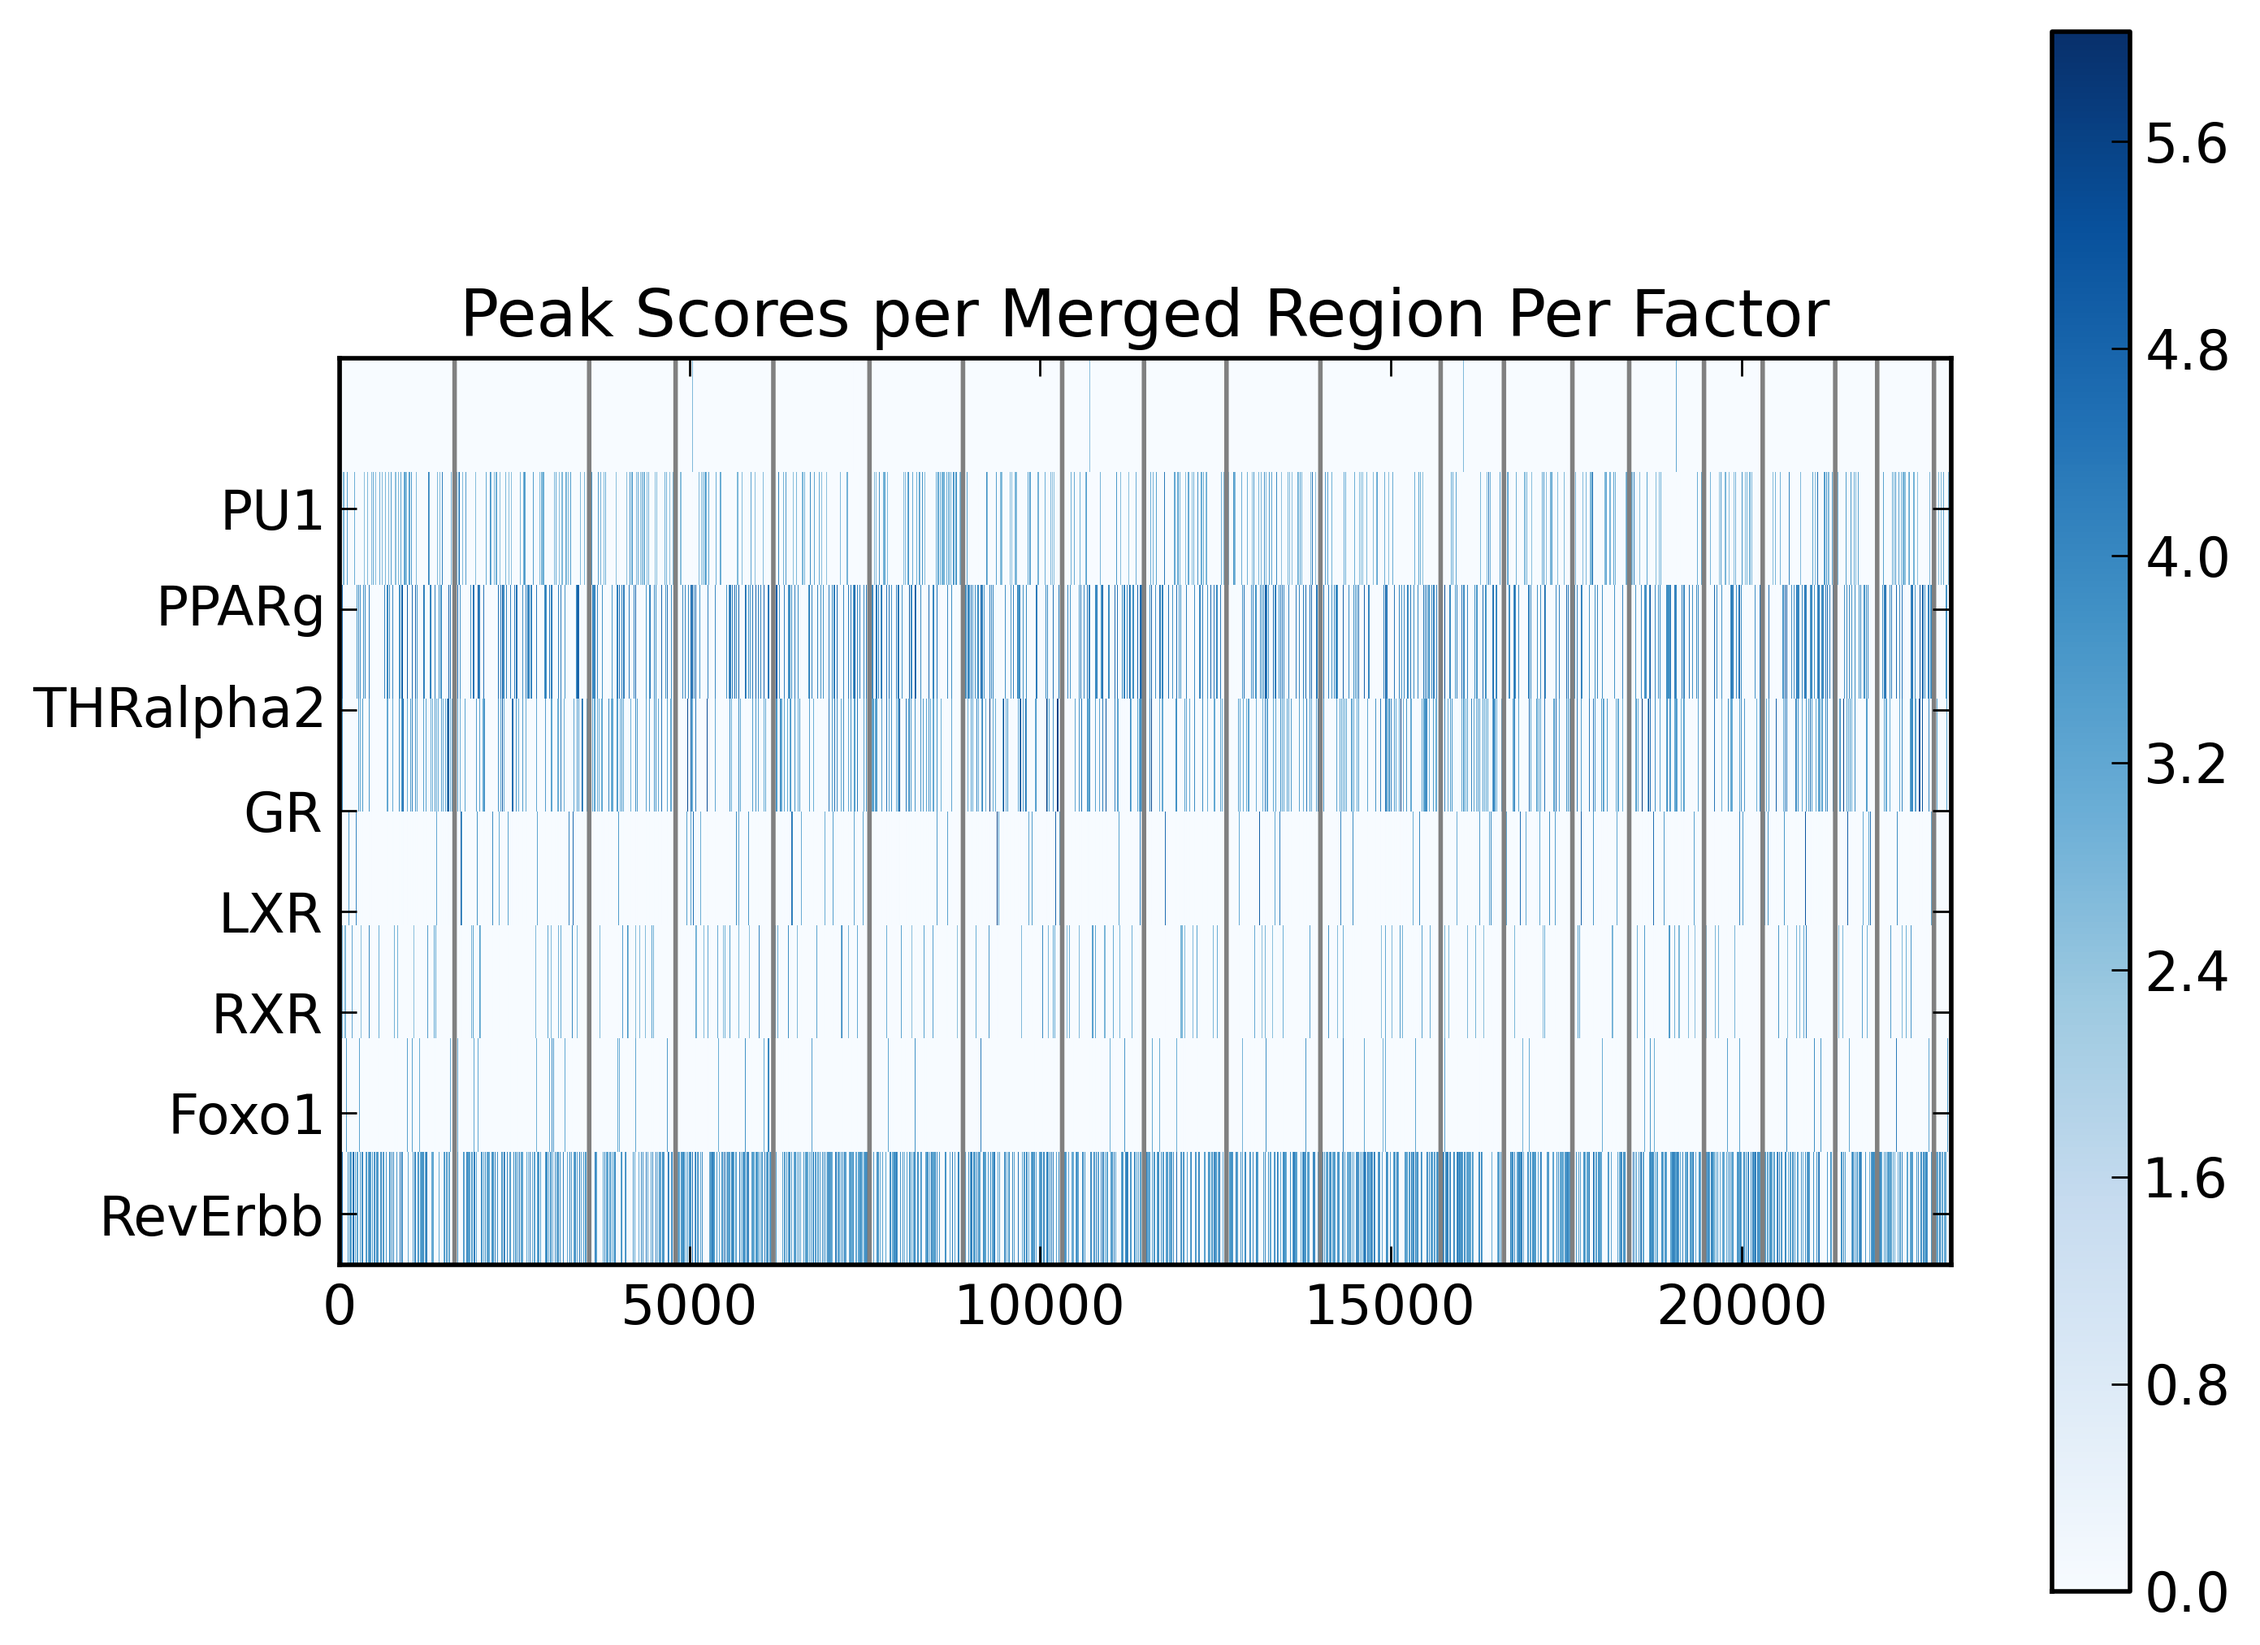
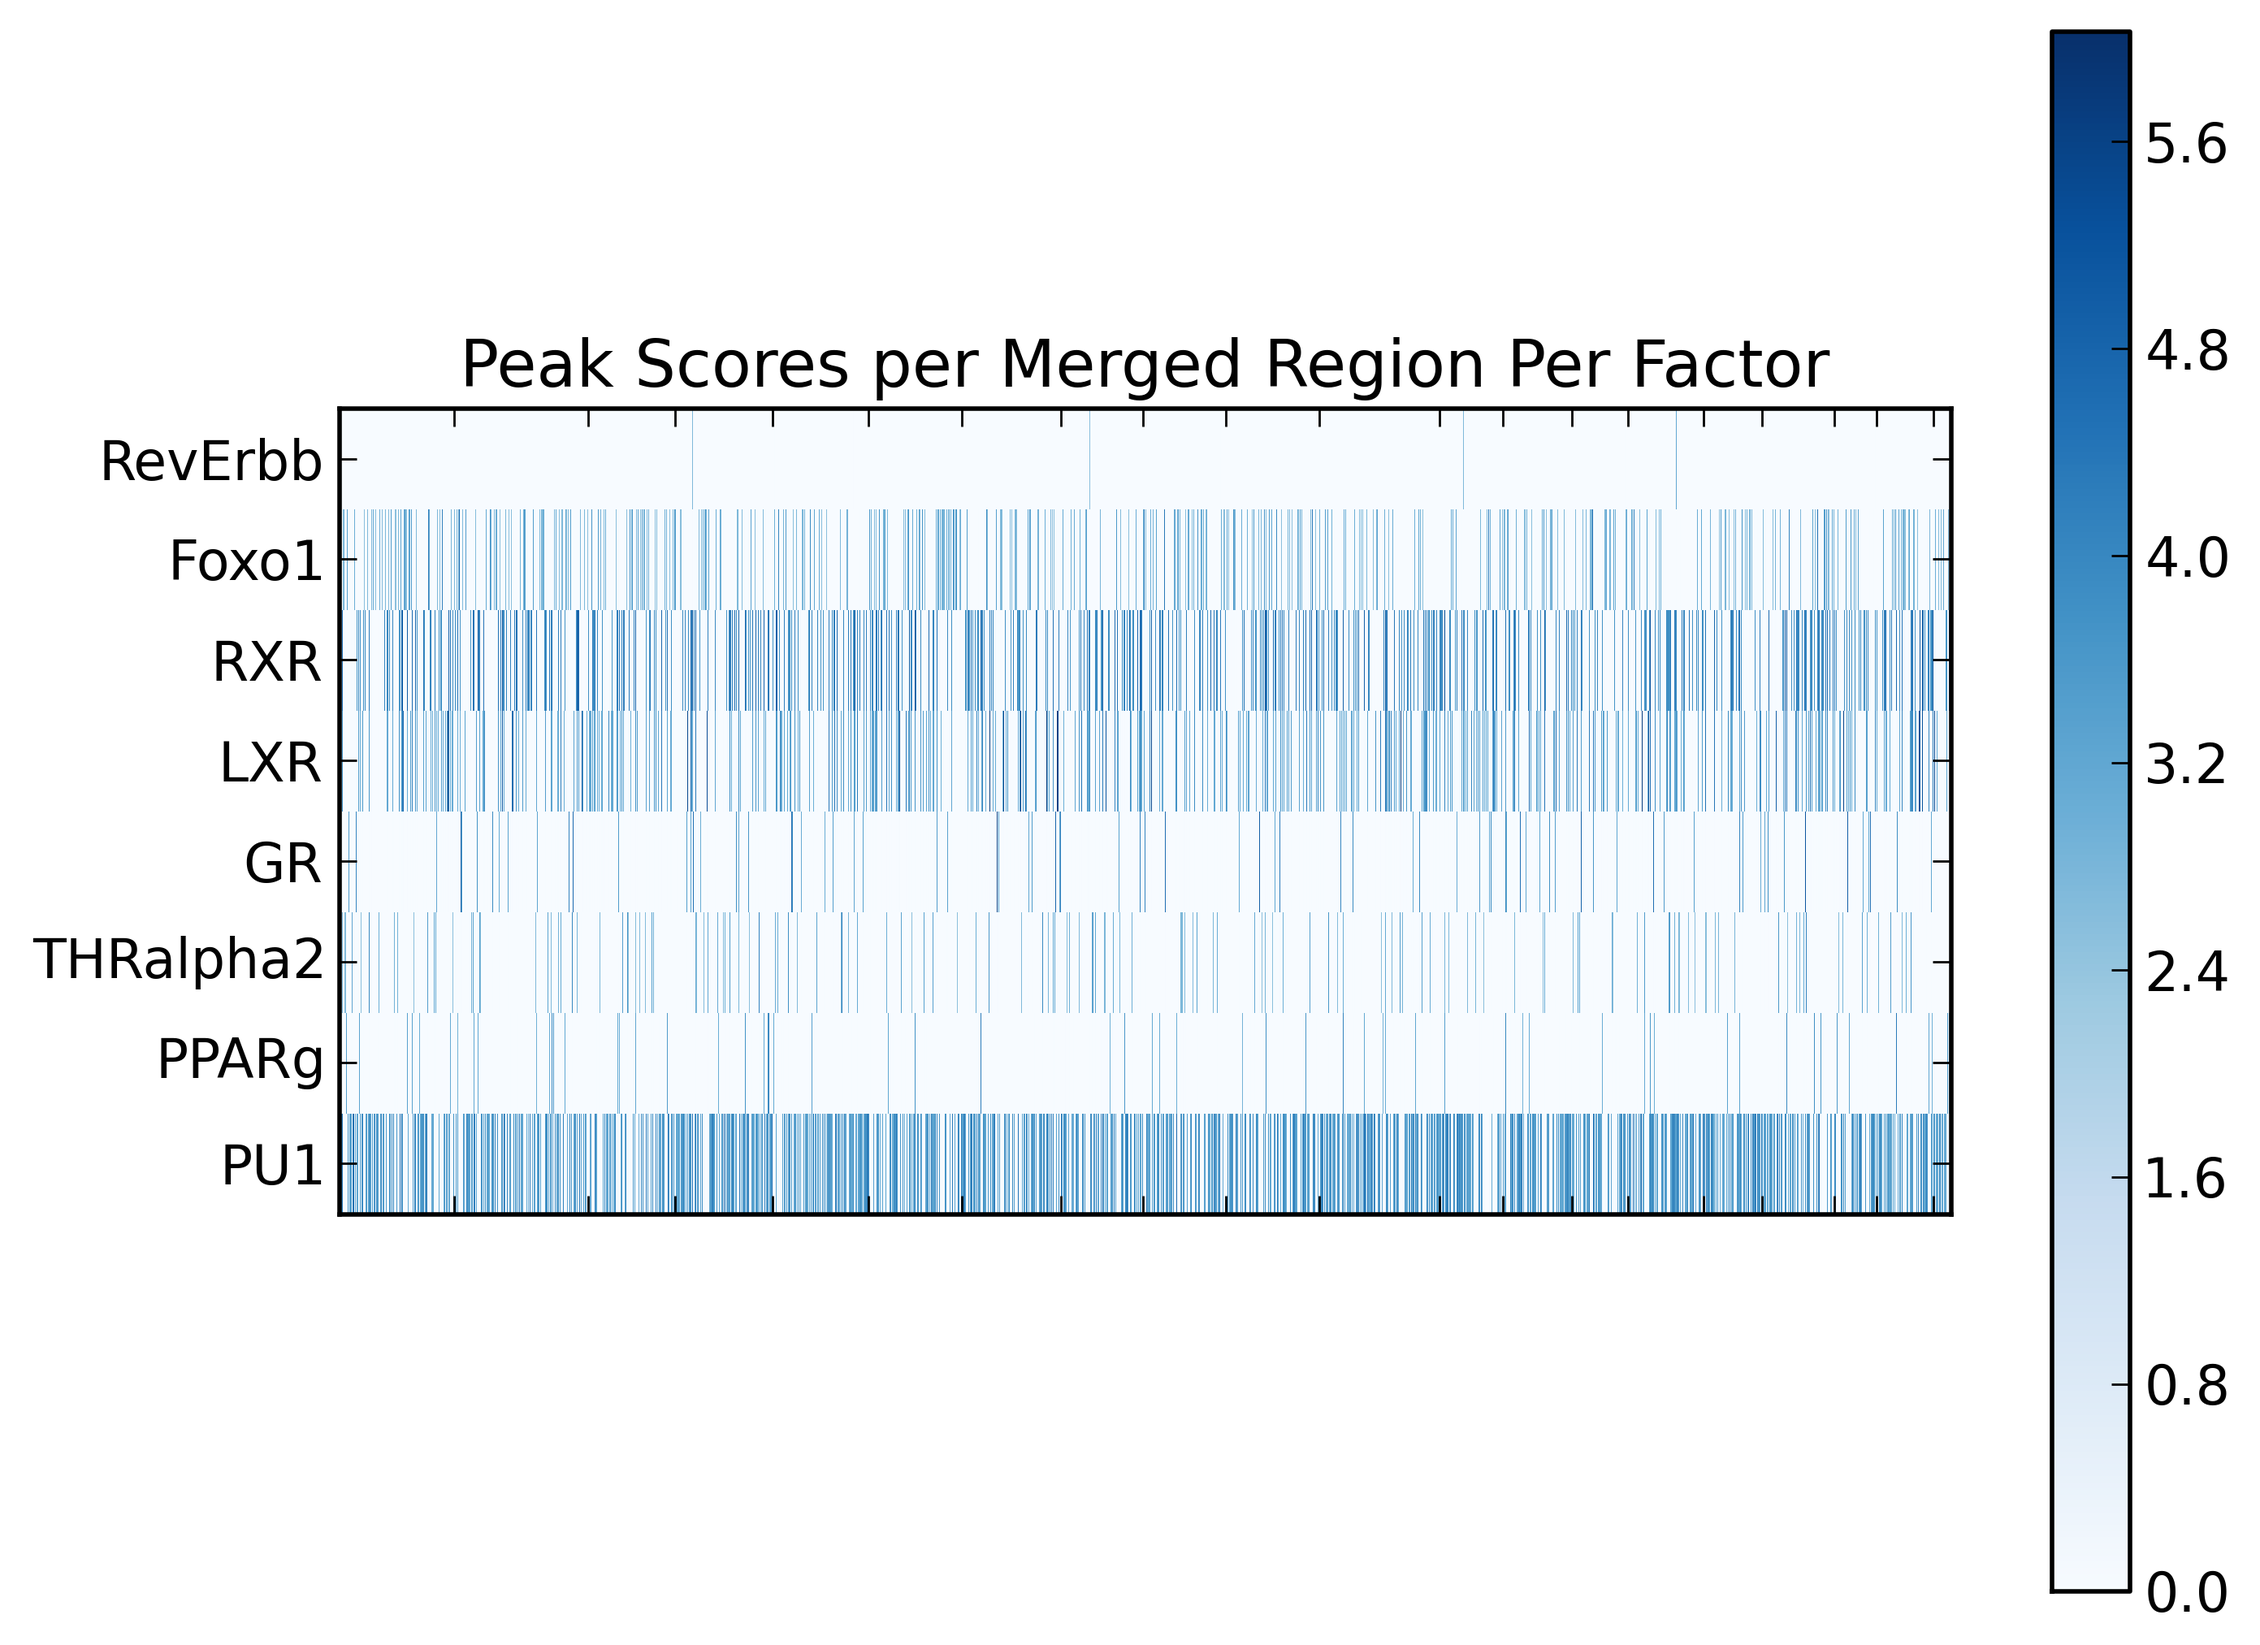
moo

diff --git a/makePositionHeatMap.py b/makePositionHeatMap.py
@@ -72,9 +72,9 @@ def plotScores(inputPath, outPath):
 				scoreMatrix[factorNumber][i] = peakScores[factorNumber]	
 				scoreArray.append(peakScores[factorNumber])
 	fig, ax = plt.subplots()
-	img = ax.imshow(scoreMatrix, cmap=cm.Blues, extent=[0, len(mergedRegions),0,len(factors)+1],aspect =len(mergedRegions)/len(factors)/2, interpolation="none") 
+	img = ax.imshow(scoreMatrix, cmap=cm.Blues, extent=[0, len(mergedRegions),0,len(factors)],aspect =len(mergedRegions)/len(factors)/2, interpolation="none") 
 	fig.colorbar(img)
-	plt.vlines(chromBreaks,len(factors),len(factors)+1, color="grey")
+	#plt.vlines(chromBreaks,len(factors),len(factors)+1, color="grey")
 	# label chromosome breaks
 #	for i in range(len(chromBreaks)-1):
 #		chrBreak = chromBreaks[i]
@@ -83,6 +83,9 @@ def plotScores(inputPath, outPath):
 		
 	# fix ticks and labels
 	ax.set_yticks(np.arange(len(factors))+0.5, minor=False)
+	ax.set_xticks(chromBreaks)
+	ax.set_xticklabels([])
+	factors.reverse()
 	ax.set_yticklabels(factors, minor=False)
 	plt.title("Peak Scores per Merged Region Per Factor")
 
